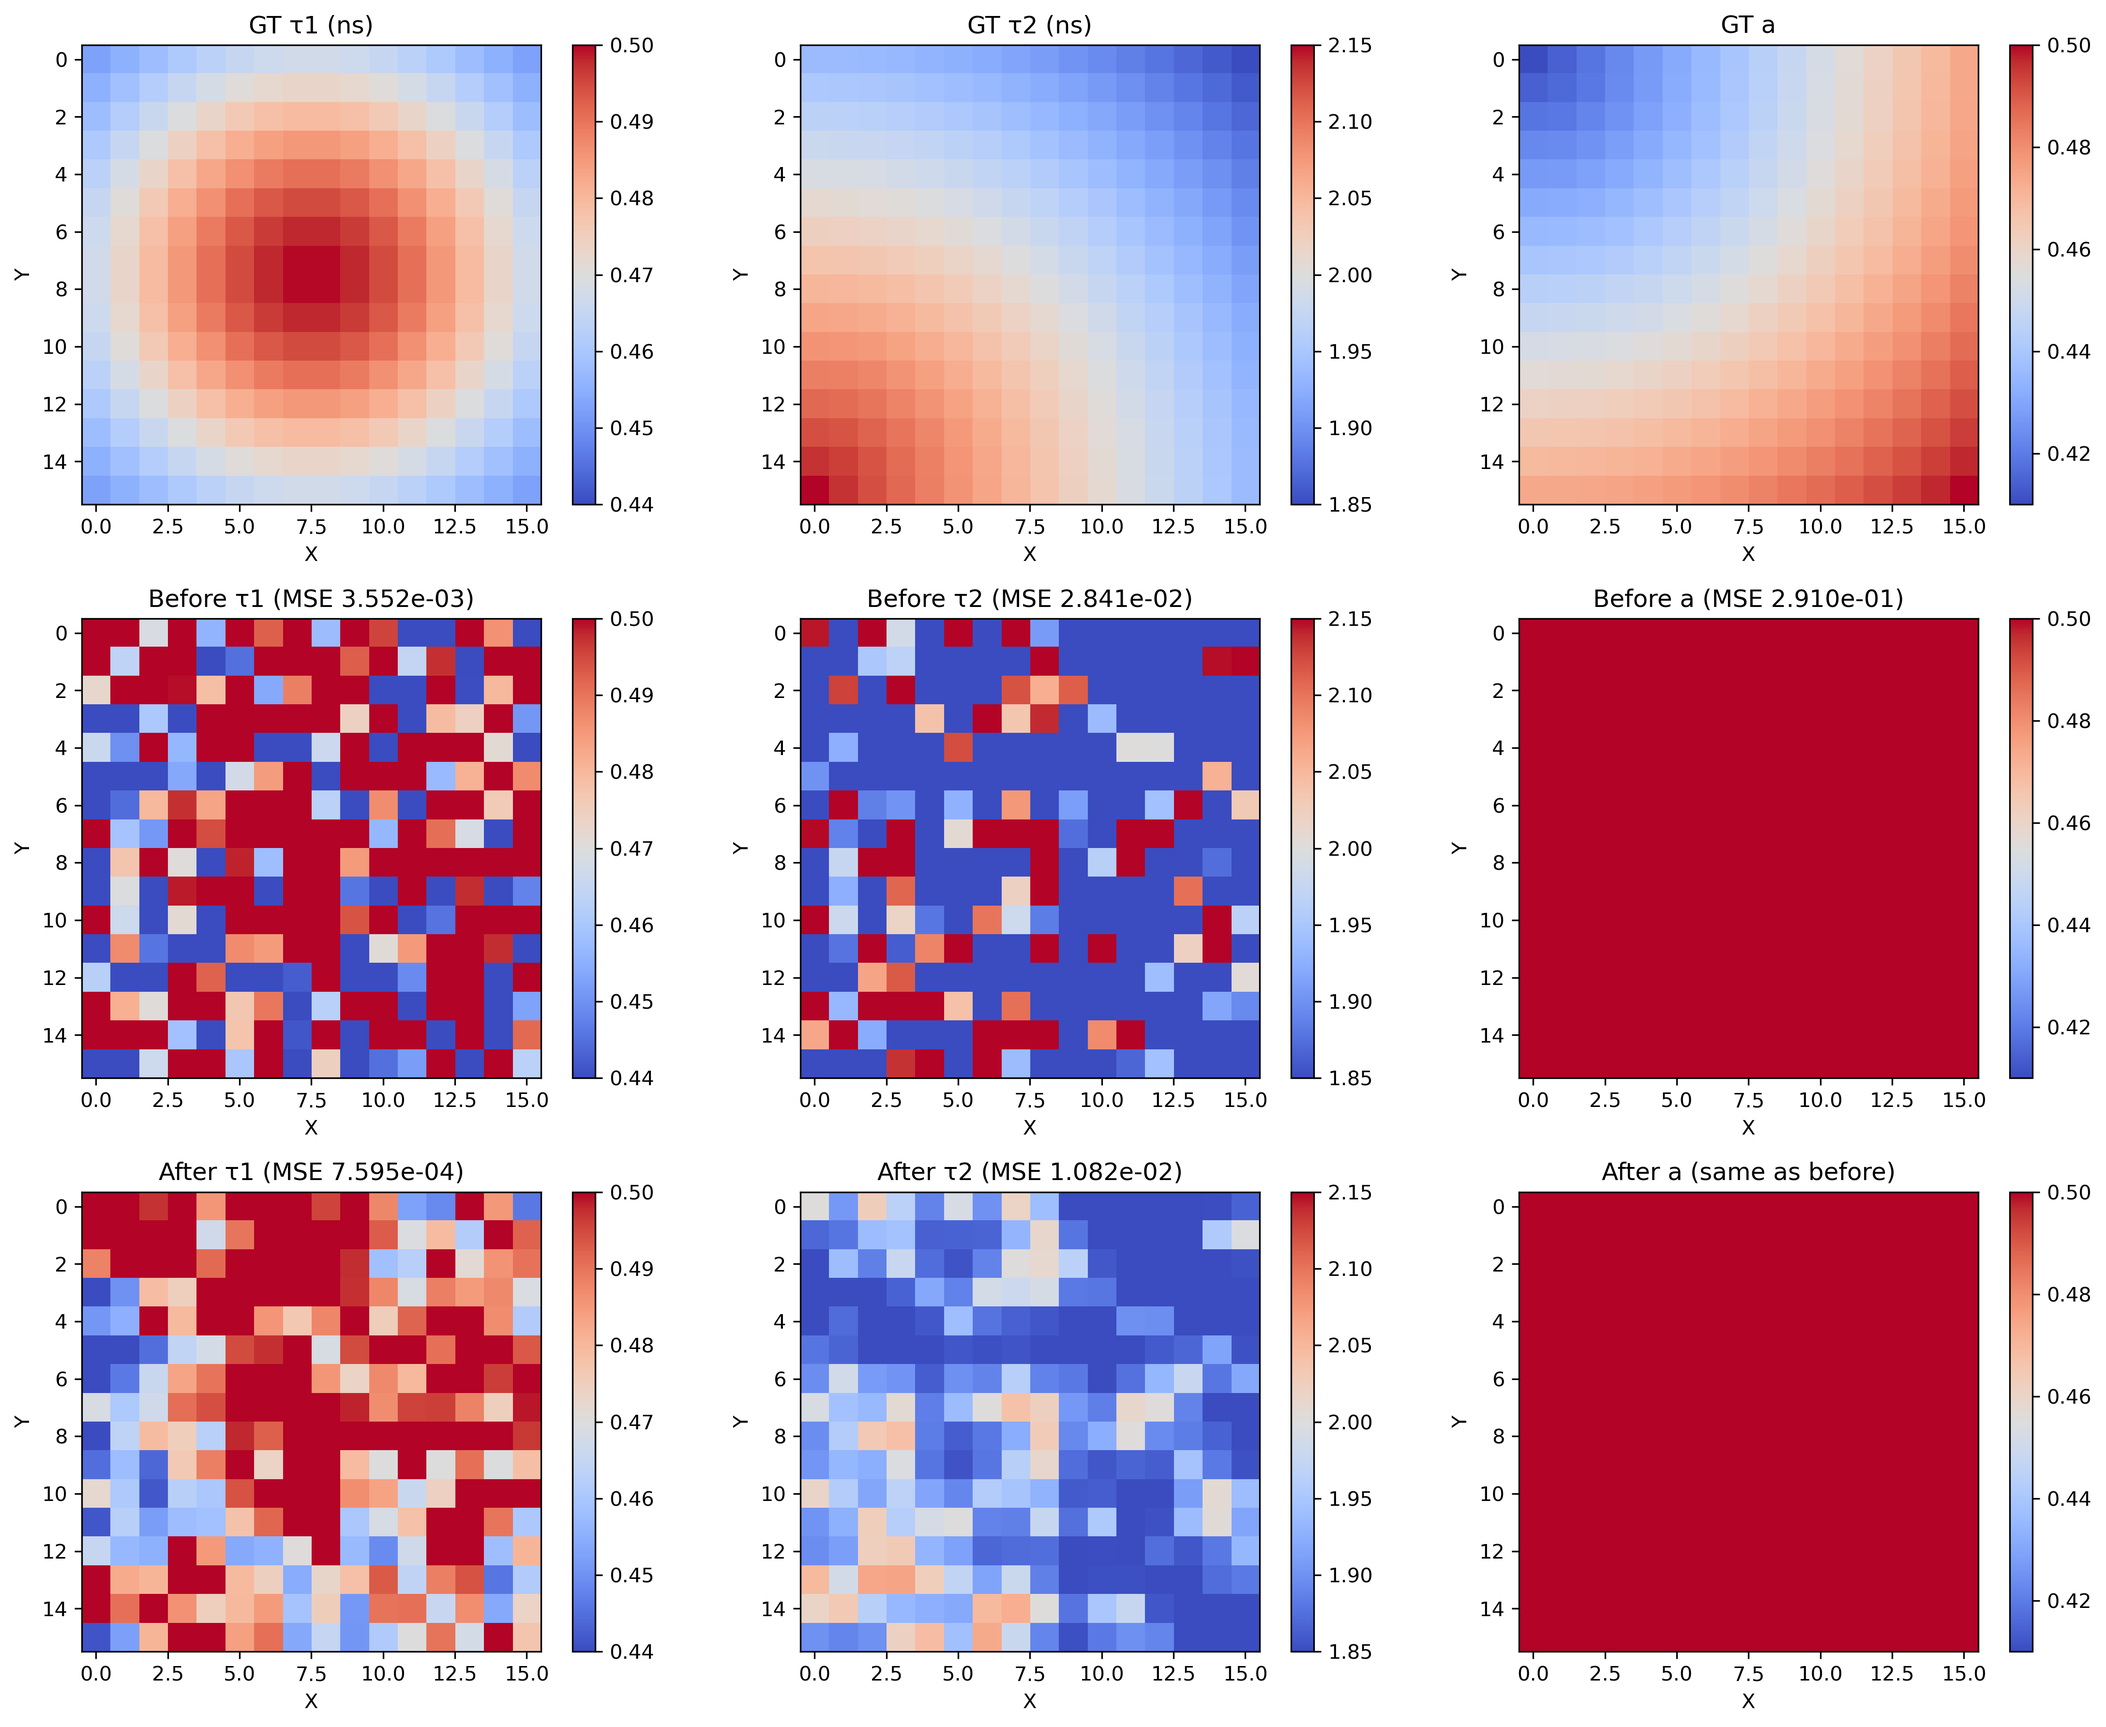
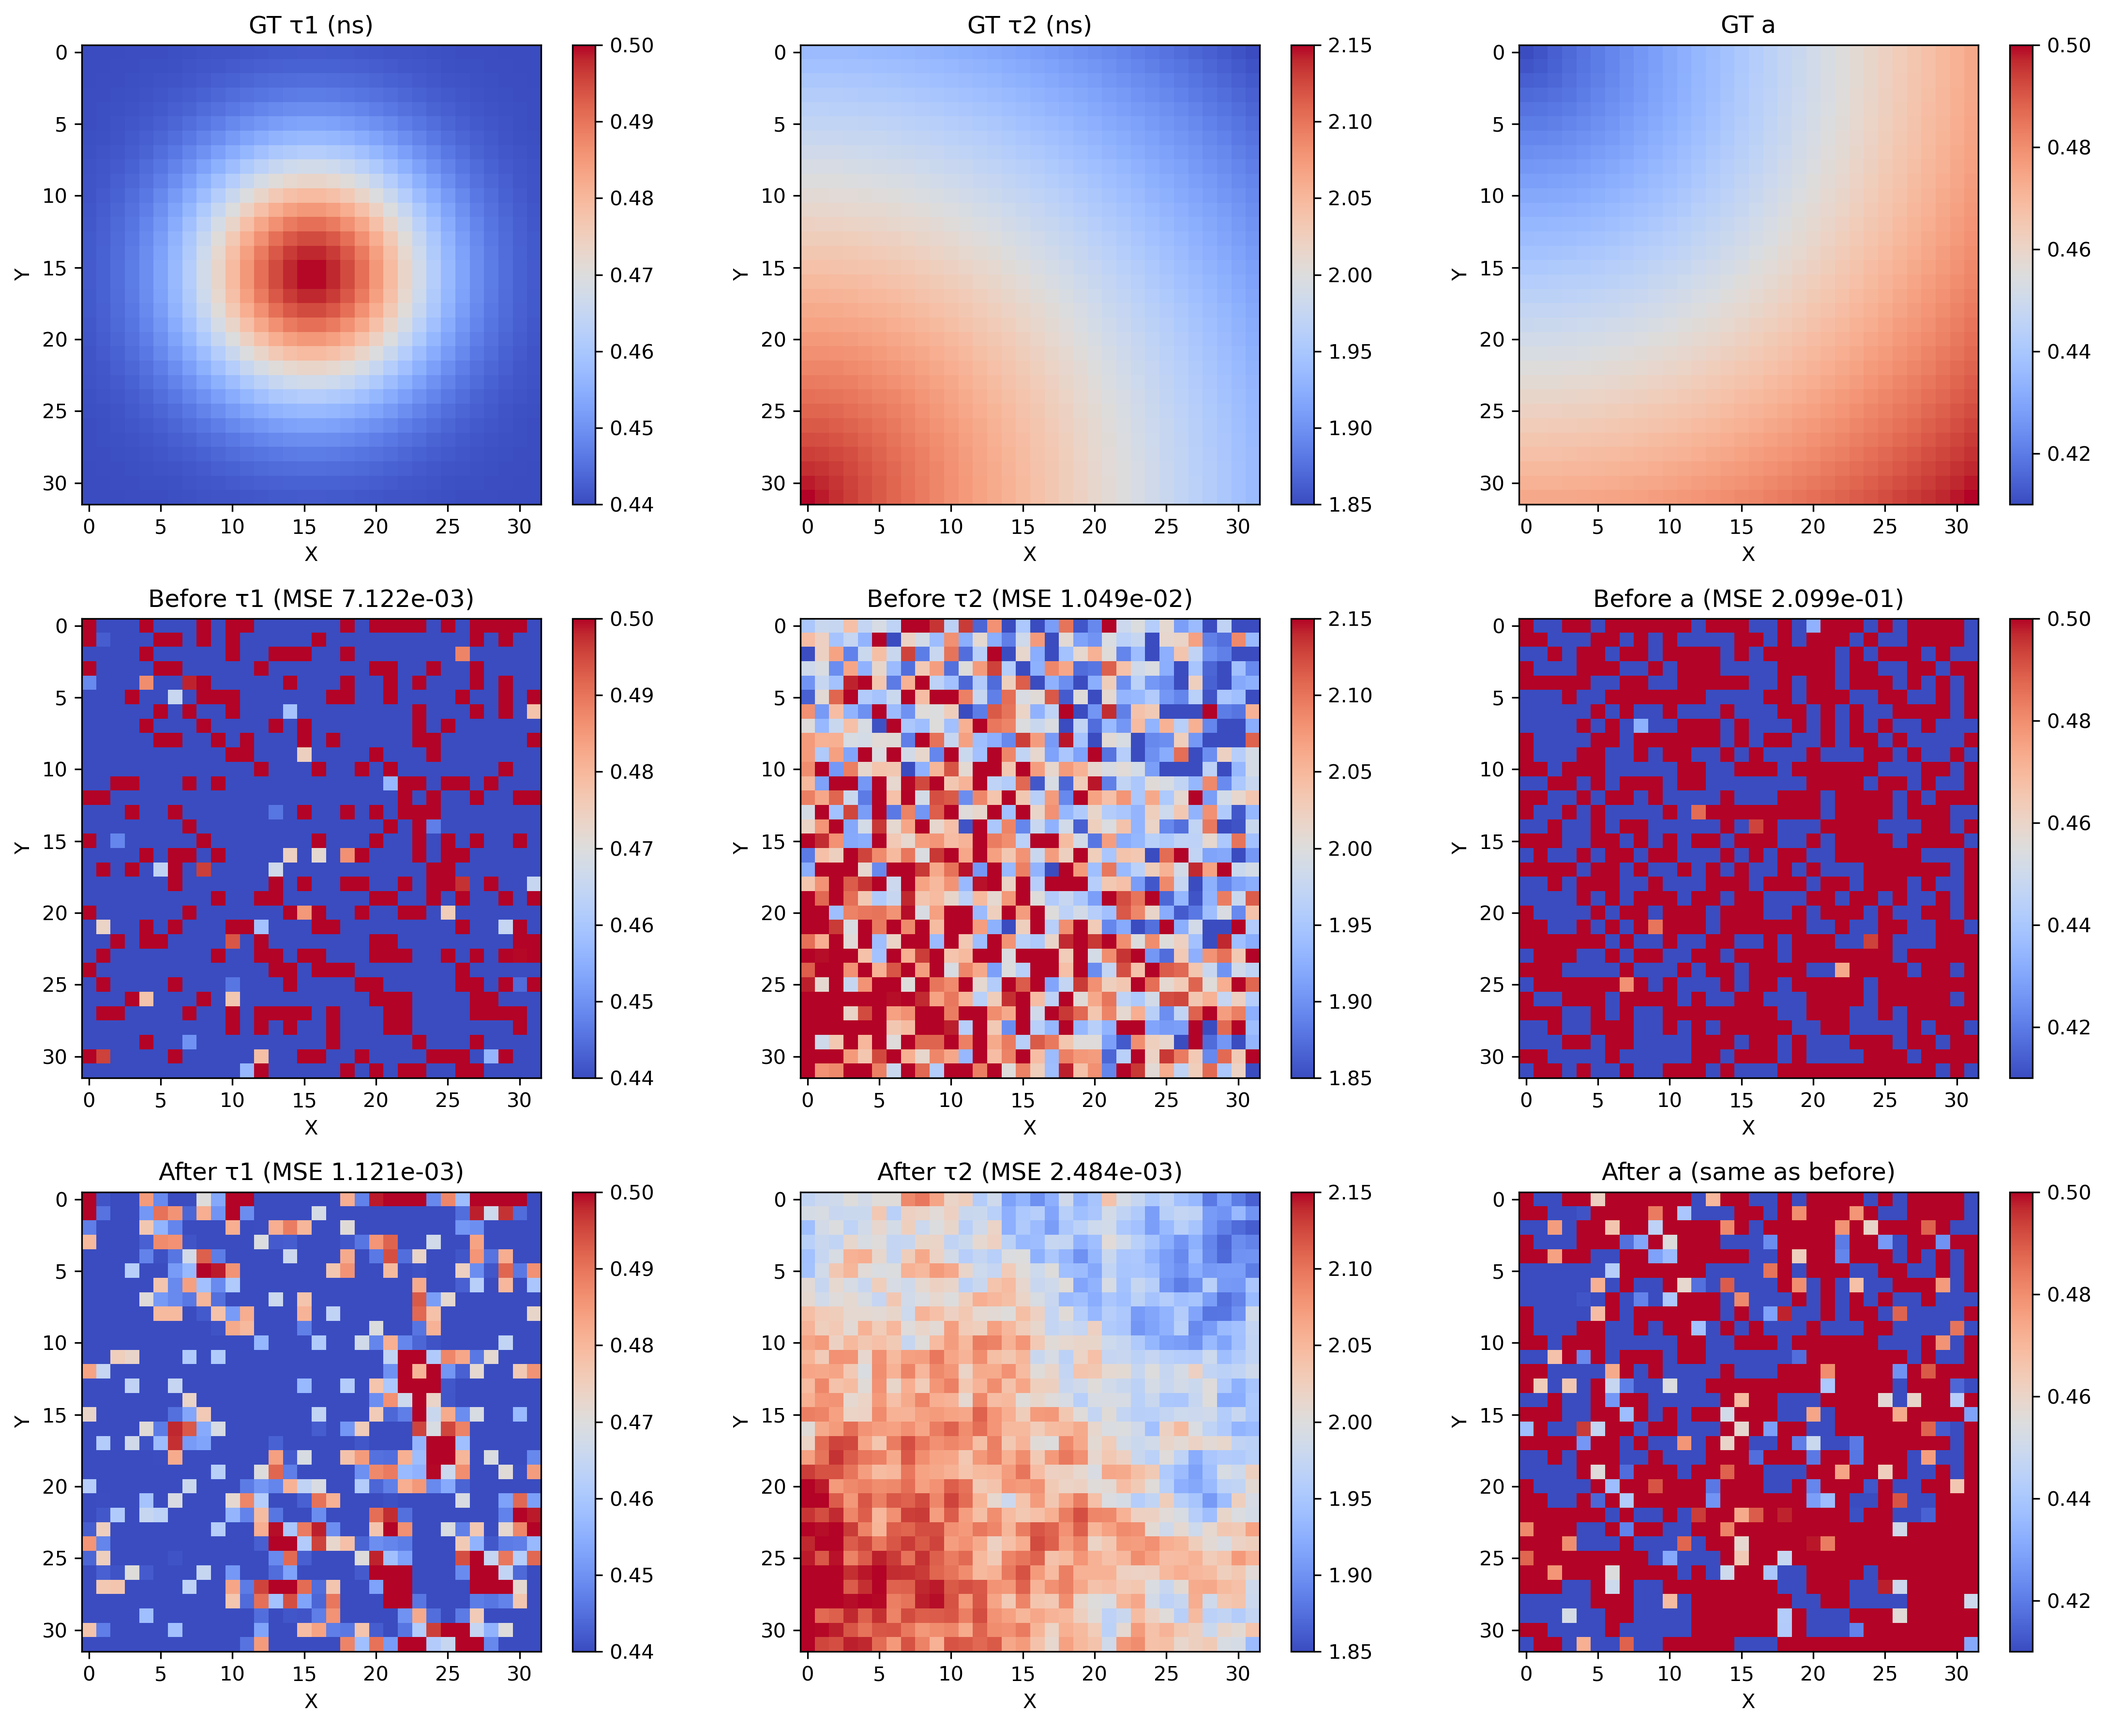
Add smoothed process

diff --git a/paper_experiment_reproduction_fixed.py b/paper_experiment_reproduction_fixed.py
@@ -111,10 +111,14 @@ class PaperExperimentReproductionFixed:
             Photon histogram
         """
         # Calculate ideal double exponential decay
-        ideal_decay = (a / tau1 * np.exp(-self.time_channel_centers / tau1) + 
-                      (1 - a) / tau2 * np.exp(-self.time_channel_centers / tau2))
-        
-        # Normalize
+        ideal_decay = (a / tau1 * np.exp(-self.time_channel_centers / tau1) +
+                       (1 - a) / tau2 * np.exp(-self.time_channel_centers / tau2))
+
+        # Convolve with IRF to follow the physical acquisition model
+        if getattr(self, "irf", None) is not None:
+            ideal_decay = fftconvolve(ideal_decay, self.irf, mode="same")
+
+        # Normalize after convolution
         ideal_decay = ideal_decay / np.sum(ideal_decay)
         
         # Allocate photon numbers
@@ -1063,81 +1067,53 @@ class PaperExperimentReproductionFixed:
 
 
 def main():
-    """Main function: run all experiments"""
-    print("Paper Experiment Reproduction: Non-parametric Bayesian Fluorescence Lifetime Analysis Performance Evaluation (Fixed Version)\n")
-    # Fix randomness for fair comparisons across runs
+    """Main function: run selected experiments for error_line_charts only (optimized)"""
+    print("Paper Experiment Reproduction (Optimized for error_line_charts)\n")
+    start_all = time.time()
+    # Fix randomness for reproducibility
     np.random.seed(42)
-    
-    # Initialize experiment
+
+    # Initialize experiment instance
     experiment = PaperExperimentReproductionFixed(
-        image_size=16,
+        image_size=32,
         time_range=10.0,  # 10 ns
         num_channels=256,
-        irf_mean=1.5,     # 1500 ps = 1.5 ns
-        irf_std=0.1       # 100 ps = 0.1 ns
-    )
-    
-    # Experiment 1: Prior distribution estimation performance (use smaller photon numbers to avoid numerical issues)
-    n_values = [10, 32, 100, 316, 1000]  # Reduced photon number range
-    L_values = [400, 600, 800]  # Reduced interval numbers
-    experiment_1_results = experiment.experiment_1_prior_estimation(n_values, L_values, num_repeats=1)
-    
-    # Experiment 2: Pixel-wise recovery performance (use n = 10, 32, 100)
-    n_values_2 = [10, 32, 100]
-    experiment_2_results = experiment.experiment_2_pixel_wise_recovery(n_values_2, num_repeats=3, lambda_laplacian=0.8)
-    
-    # Experiment 3: Computation efficiency (disabled by user request)
-    # image_sizes = [16, 32, 64]
-    # experiment_3_results = experiment.experiment_3_computation_efficiency(image_sizes, n_photons=1000)
-    
-    # Combine results
-    all_results = {
-        'experiment_1': experiment_1_results,
-        'experiment_2': experiment_2_results
-        # 'experiment_3': experiment_3_results
-    }
-    
-    # Generate ground truth parameters visualization
-    print("\n=== Generating Ground Truth Parameters Visualization ===")
-    experiment.plot_ground_truth_parameters()
-    
-    # Plot results
-    experiment.plot_results(all_results)
-
-    # Generate smoothing comparison and compose overview
-    print("\n=== Generating Smoothing Comparison ===")
-    experiment.plot_smoothing_comparison(n_photons=1000, lambda_laplacian=0.8,
-                                         save_path='smoothing_comparison.png')
-    experiment.compose_results_with_smoothing(
-        base_path='paper_experiment_results_fixed.png',
-        smoothing_path='smoothing_comparison.png',
-        out_path='paper_experiment_results_full.png'
+        irf_mean=1.5,
+        irf_std=0.1
     )
 
-    # Save the three error line charts as one PNG (use Experiment 2 results)
-    if 'experiment_2' in all_results:
-        experiment.plot_error_line_charts(all_results['experiment_2'], save_path='error_line_charts.png')
-    
-    # Print key results
-    print("\n=== Key Results Summary ===")
-    print("Experiment 1 - Prior Distribution Estimation:")
-    for n in [100, 1000]:
-        if n in experiment_1_results:
-            print(f"  Photons {n}: Average Error = {experiment_1_results[n].get(800, 'N/A'):.4f}")
-    
-    print("\nExperiment 2 - Pixel-wise Recovery:")
-    for method in ['pixel_wise', 'global', 'nebf']:
+    # === Configurations per user request ===
+    L_requested = 1400  # Not used directly here, but kept for record
+    n_values_2 = [100, 316, 1000, 3162, 10000, 31623]  # 10^2 ... 10^4.5
+
+    # --- Run Experiment 2 only (pixel-wise recovery & variants) ---
+    print("\n=== Running Experiment 2 only (for error_line_charts) ===")
+    experiment_2_results = experiment.experiment_2_pixel_wise_recovery(
+        n_values_2, num_repeats=1, lambda_laplacian=0.8)
+
+    # Plot error line charts
+    experiment.plot_error_line_charts(experiment_2_results, save_path='error_line_charts.png')
+
+    # --- Summary ---
+    print("\n=== Key Results (τ1 MSE) ===")
+    for method in ['pixel_wise', 'global', 'nebf', 'nebf_smooth']:
         if method in experiment_2_results:
-            for n in [10, 32, 100]:
-                if n in experiment_2_results[method]:
-                    print(f"  {method} @ n={n}: τ1 MSE = {experiment_2_results[method][n].get('tau1', 'N/A'):.4f}")
-    
-    # print("\nExperiment 3 - Computation Efficiency:")
-    # for size in [16, 32, 64]:
-    #     if size in experiment_3_results:
-    #         print(f"  {size}x{size}: NEB-FLIM Time = {experiment_3_results[size]['nebf']:.3f}s")
-    
-    print("\nAll experiments completed!")
+            for n in n_values_2:
+                mse_val = experiment_2_results[method][n].get('tau1', np.nan)
+                print(f"  {method} @ n={n}: τ1 MSE = {mse_val:.4e}")
+
+    # --- Experiment 3: Computation Efficiency ---
+    print("\n=== Running Experiment 3 (Computation Efficiency) ===")
+    image_sizes = [16, 32]
+    efficiency_results = experiment.experiment_3_computation_efficiency(image_sizes, n_photons=1000)
+
+    print("\n=== Efficiency Results (seconds) ===")
+    for size in image_sizes:
+        if size in efficiency_results:
+            print(f"  Image {size}x{size}: Pixel={efficiency_results[size]['pixel_wise']:.3f}s, "
+                  f"Global={efficiency_results[size]['global']:.3f}s, NEB={efficiency_results[size]['nebf']:.3f}s")
+
+    print(f"\nAll done! Total elapsed: {time.time() - start_all:.2f} s")
 
 
 if __name__ == "__main__":

diff --git a/run_experiments.py b/run_experiments.py
@@ -23,7 +23,7 @@ def run_experiments():
         
         end_time = time.time()
         print(f"\nExperiments completed! Total time: {end_time - start_time:.2f} seconds")
-        print("Results saved to: paper_experiment_results_fixed.png")
+        print("Results saved to: error_line_charts.png")
         
     except Exception as e:
         print(f"Error running experiments: {e}")
